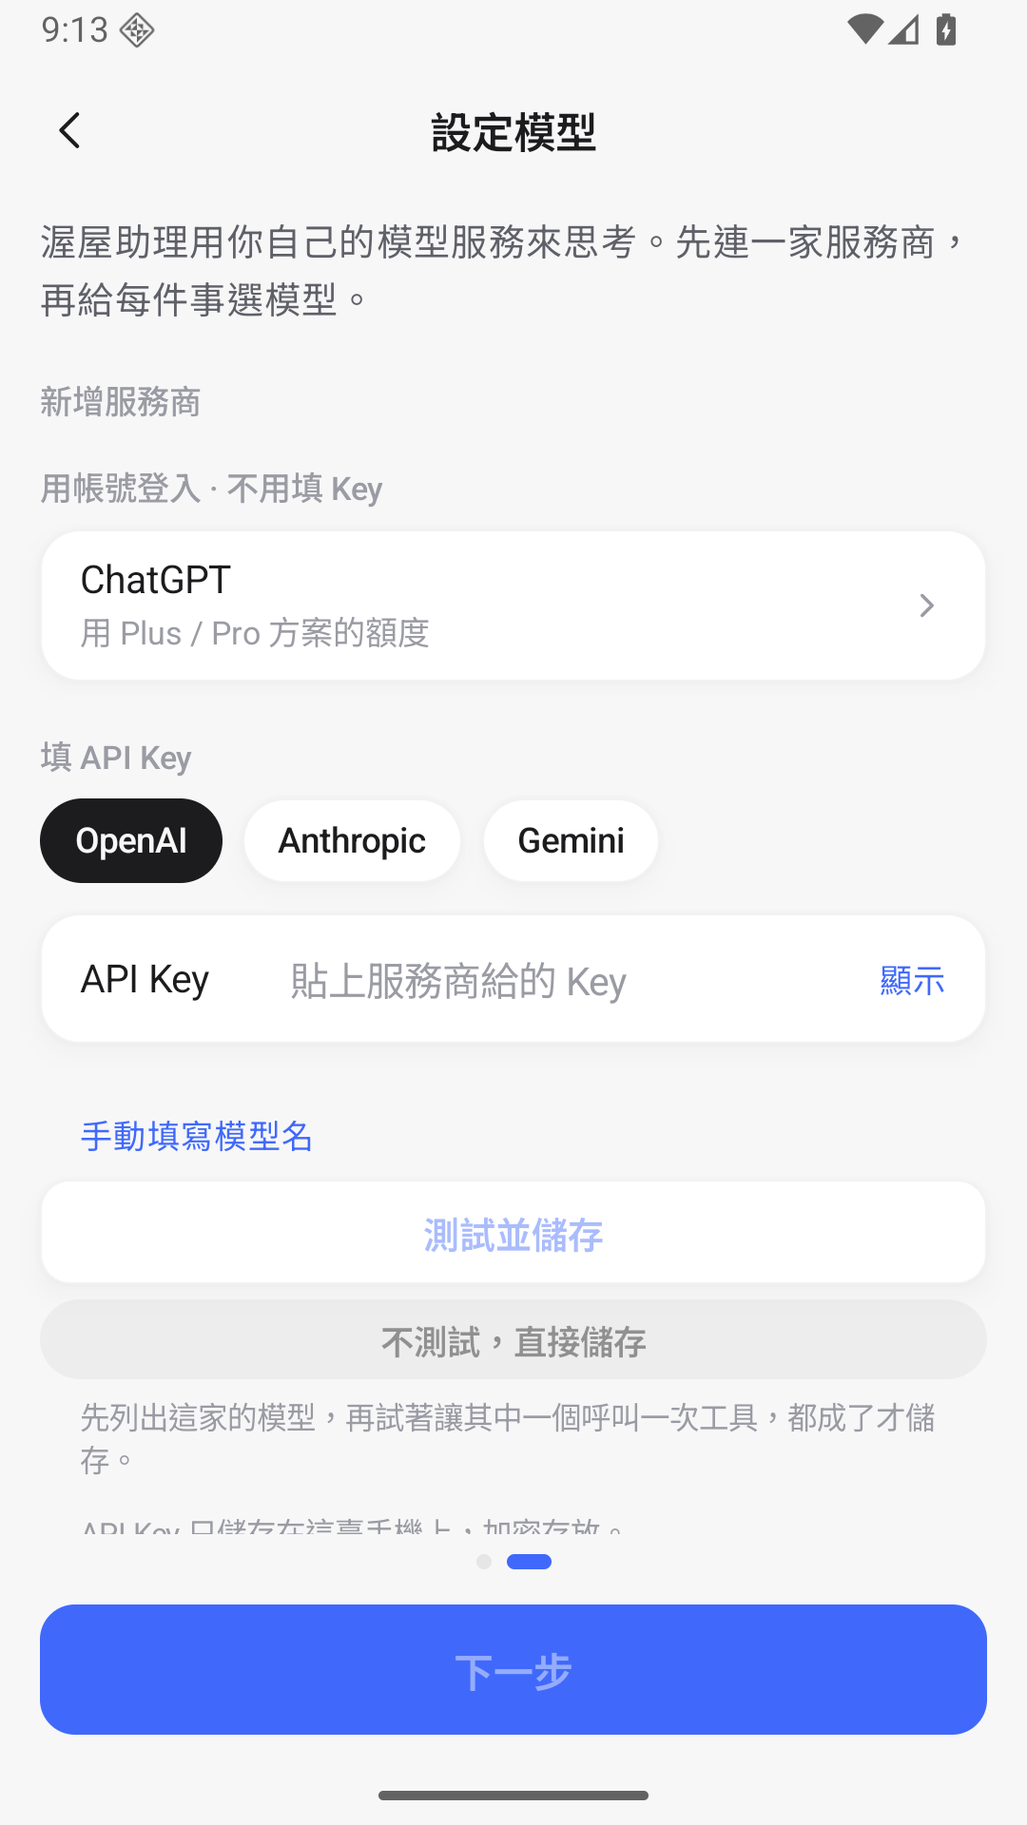
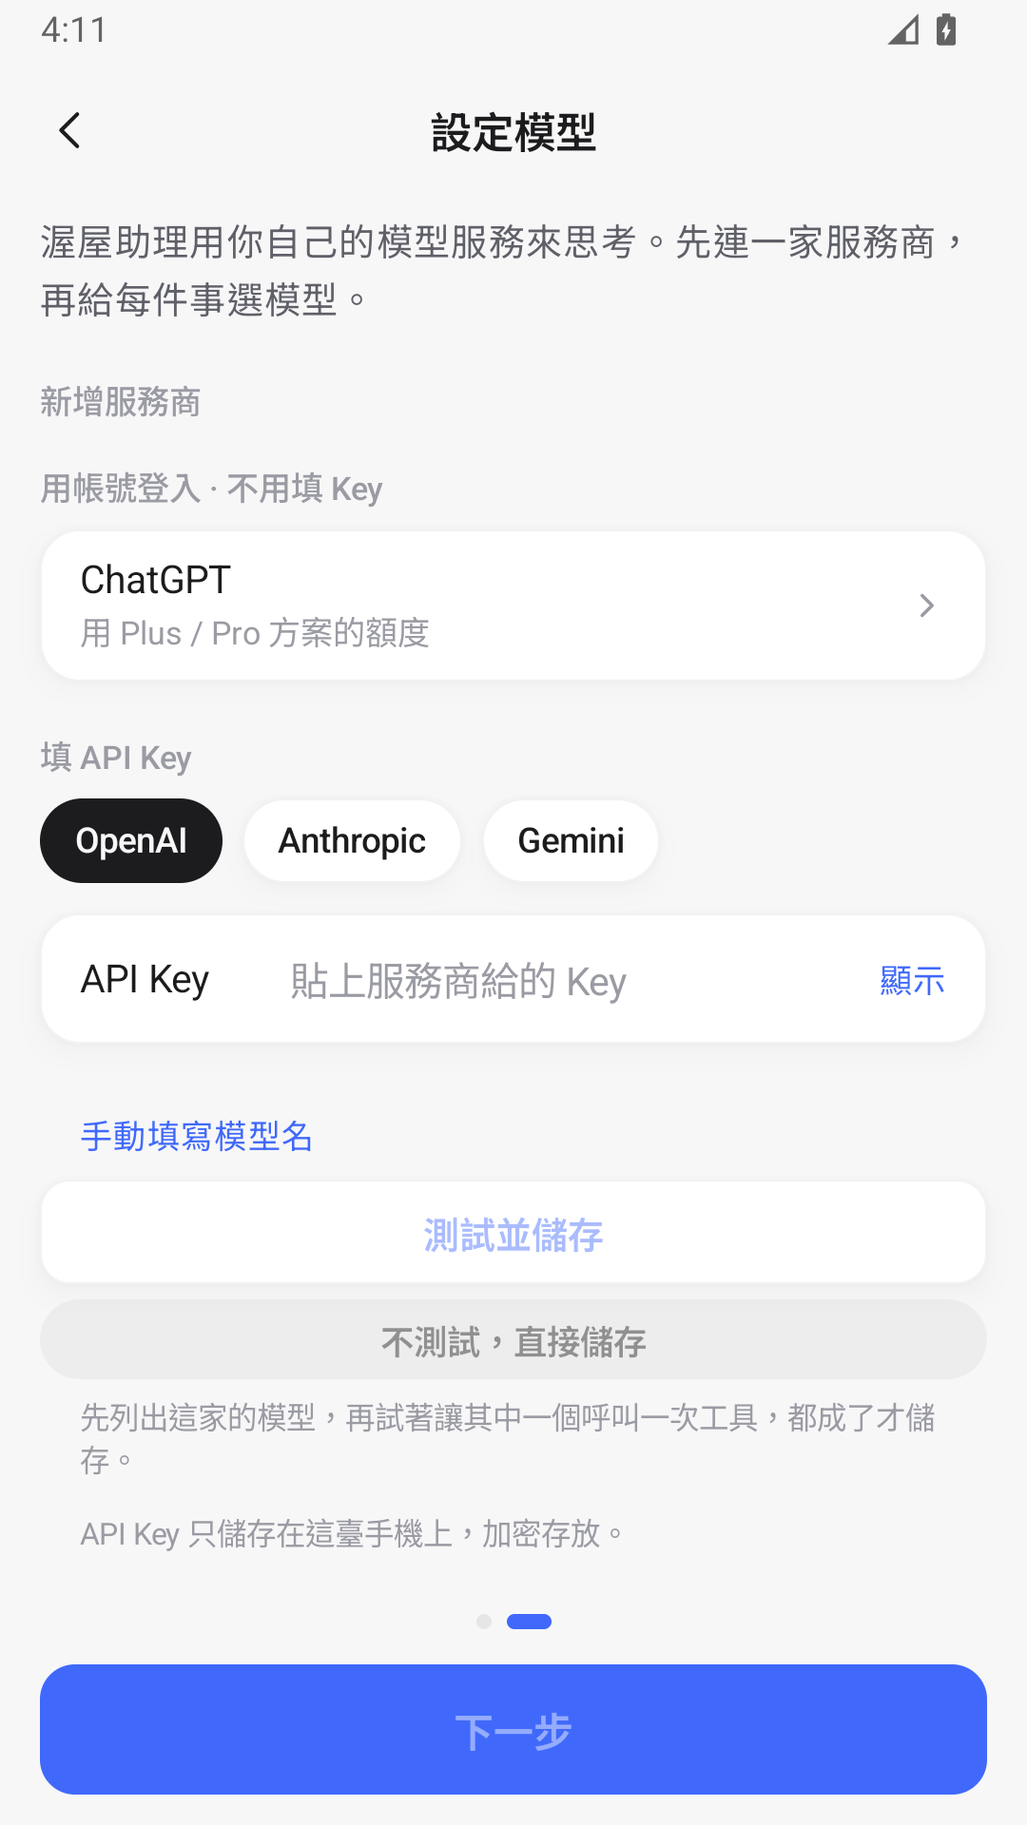
Refresh Play review assets and pre-Console acceptance

diff --git a/docs-woowtech/PLAY_SUBMISSION_STATUS_2026-11-12.md b/docs-woowtech/PLAY_SUBMISSION_STATUS_2026-11-12.md
@@ -1,6 +1,6 @@
 # 渥屋助理商店版：送審進度與交接
 
-更新：2026-11-12，Asia/Taipei。套件 `io.woowtech.assistant`，候選版 `0.1.37-play.3`、`versionCode=3`、target API 36。**目前尚未經 Play Console 上傳或送審；是否已存在同套件草稿仍待 Console 確認。** 本檔只記已完成的實測及仍需執行的事項，不把模擬器安裝當作 Play 安裝。
+更新：2026-11-13，Asia/Taipei。套件 `io.woowtech.assistant`，候選版 `0.1.37-play.3`、`versionCode=3`、target API 36。**目前尚未經 Play Console 上傳或送審；是否已存在同套件草稿仍待 Console 確認。** 本檔只記已完成的實測及仍需執行的事項，不把模擬器安裝當作 Play 安裝。
 
 ## 已完成
 
@@ -11,7 +11,8 @@
 | 隱私與資料申報底稿 | 公開雙語頁 `https://assistant-relay.woowtech.io/privacy/play` 已更新並回讀 200；揭露對話、附件、語音、MCP、使用者主動傳送的診斷紀錄與檢舉資料。Data safety 逐題工作表在 `PLAY_DATA_SAFETY_WORKSHEET_2026-11-12.md`，尚未填 Console。 |
 | 套件精簡與加密 | 商店 AAB 不含沙箱 rootfs、PRoot、mikarun、ML Kit OCR 依賴與其 native 檔；Apporo／上游變體保留。商店版模型只走官方 HTTPS，遠端 MCP 和診斷網址須 HTTPS。 |
 | 實機和模擬器 | 已把當前原始碼重新建置的 `play.3` Debug APK 以 ADB 更新至 POCO：真實 ChatGPT 短對話成功，HA MCP 列出 77 工具，記憶／技能頁與公開隱私頁可開啟，舊自訂供應商標示不支援；橫向側欄能捲到最近對話及設定。測試對話已刪除，原 GitHub 版已回前景。另從簽章 AAB 派生分割 APK 安裝於全新 Android 36 模擬器，核對中英文模型設定只出現官方供應商。詳細界線見 `PLAY_POCO_ACCEPTANCE_2026-11-12.md`；均不等於 Play 商店安裝。 |
-| 商店素材 | icon、feature graphic、雙語歡迎與模型設定截圖已準備，截圖已用本次 AAB 衍生安裝重拍。`play-assets/fgs-task-demo-redacted.mp4` 展示前景任務；`play-assets/fgs-chatgpt-signin-demo.mp4` 連續展示使用者啟動登入、系統瀏覽器及前景通知的取消按鈕。兩片均顯示使用者如何觸發功能，符合 Google 公開影片說明；最終仍以 Console 審查為準。 |
+| 乾淨安裝補驗 | 2026-11-13 將簽章 AAB 透過 bundletool 派生 APK，以 Debug 憑證安裝至已清除資料的 Android 36 Google APIs 模擬器；英／繁中歡迎頁及模型設定正常，只見 ChatGPT 和 OpenAI、Anthropic、Gemini 官方選項，無 Key 時儲存與下一步不可按。ChatGPT 登入會啟動前景服務並開啟瀏覽器，回 App 取消後服務停止；沒有完成帳號登入或模型對話。這臺模擬器沒有 Play Store，不能當作 Play 軌道安裝。 |
+| 商店素材 | icon、feature graphic、雙語歡迎與模型設定截圖已準備；四張英／繁中截圖已從這次 AAB 衍生安裝重拍並確認 RGB 像素與原始擷取一致。公開隱私頁、支援網站與兩支前景服務影片 URL 在 2026-11-13 回 200。影片展示使用者如何觸發功能；最終仍以 Console 審查為準。對話、瀏覽器、記憶的商店截圖要在 Play 安裝後補拍，現在不得把早期 Debug 實測說成 Play 截圖。 |
 | 簽章候選包 | 專用上傳金鑰已用於 `bundleWoowtechRelease`；bundletool 驗證成功、`jarsigner` 回報 `jar verified`。`tools/build-play-candidate.sh` 要求私有簽章設定與 bundletool，並攔截未簽章包、套件名稱錯誤、缺少 16 KB 對齊及誤包入直接下載版執行環境。每次程式碼提交後都須重建包並記錄 SHA-256；Google Play App Signing 與從 Play 商店安裝另需驗收。 |
 
 ## 仍需完成才能提交
@@ -20,7 +21,7 @@
 2. **Play Console 表單與上傳。** Chrome 已登入 WOOWTECH 機構帳戶，但本次 `System Events` 自動化再次 AppleEvent 逾時 `-1712`，所以尚未能確認草稿、建立 App 或上傳 AAB。取得可操作的 Console 後填商店圖文、分級、目標對象、廣告、Data safety、AI 內容、App access、隱私政策與前景服務聲明。草稿見 `PLAY_CONSOLE_REVIEW_INPUT_DRAFT.md`。
    - 這個套件名稱曾以 Debug 簽章安裝在 POCO。Google 的 Android 開發者驗證說明指出，若新 Play App 的套件名稱先在已認證裝置使用，Console 可能要求驗證當時的簽章私鑰所有權；遇到該提示時依 Console 流程使用本機既有的 Debug 簽章材料，不應猜測已自動通過。[官方說明](https://developer.android.com/developer-verification/assets/pdfs/updates-to-play-console-for-android-developer-verification.pdf)
 3. **前景服務申報。** Manifest 有 `TaskService` 及 `ChatGptSignInService` 兩項 `specialUse`，各需用途、啟動／停止與中斷影響說明，並提交已準備的示範影片。公開說明要求影片展示 App 中觸發功能的步驟；兩片均已涵蓋。Console 仍須實際接受用途與影片。[FGS 申報](https://support.google.com/googleplay/android-developer/answer/13392821?hl=en)
-4. **Play 內測。** 使用和提交版本一致的簽章 AAB，核對 manifest／16 KB 相容性後上傳內部測試。先從 Play 安裝至乾淨的測試裝置或可使用 Play 的模擬器，驗證首次設定、官方模型對話、HTTPS MCP、語音、瀏覽器、技能／記憶、檢舉與刪除；內測通過後才進入正式送審流程。POCO 現有同套件 Debug 憑證已確認不同於本機上傳憑證；Play 分發憑證仍須在 Console 核對，若不同便不能直接覆蓋。須先決定 POCO 的資料保留／遷移方案，**不得為了內測直接解除安裝並清掉既有資料**。[Android 更新簽章規則](https://developer.android.com/google/play/app-updates)、[Play App Signing](https://support.google.com/googleplay/android-developer/answer/9842756?hl=en)
+4. **Play 內測。** 使用和提交版本一致的簽章 AAB，核對 manifest／16 KB 相容性後上傳內部測試。先從 Play 安裝至乾淨的測試裝置或可使用 Play 的模擬器，依 `PLAY_INTERNAL_TEST_CHECKLIST_2026-11-13.md` 驗證首次設定、官方模型對話、HTTPS MCP、語音、瀏覽器、技能／記憶、檢舉與刪除；內測通過後才進入正式送審流程。現有 Android 36 Google APIs 模擬器沒有 Play Store。POCO 現有同套件 Debug 憑證已確認不同於本機上傳憑證；Play 分發憑證仍須在 Console 核對，若不同便不能直接覆蓋。須先決定 POCO 的資料保留／遷移方案，**不得為了內測直接解除安裝並清掉既有資料**。[Android 更新簽章規則](https://developer.android.com/google/play/app-updates)、[Play App Signing](https://support.google.com/googleplay/android-developer/answer/9842756?hl=en)
 5. **營運交接。** 指派實際每日處理檢舉的人員，確認隱私聯絡信箱持續可收件；依 `PLAY_AI_REPORT_OPERATIONS.md` 留下去識別化的處理紀錄。
 
 較早研究 `PLAY_REVIEW_READINESS_2026-11-12.md` 為歷史紀錄，其中 `play.2`、未簽章包與未公開隱私政策的狀態已被本檔更新。

diff --git a/docs-woowtech/PLAY_SUBMISSION_HANDOFF_2026-11-12.md b/docs-woowtech/PLAY_SUBMISSION_HANDOFF_2026-11-12.md
@@ -1,6 +1,6 @@
 # 渥屋助理商店版：送審與實機驗收交接
 
-> 2026-11-12 後續 Console 核對：WOOWTECH 已確認為機構帳戶；首頁列出的八個 App 未見 `io.woowtech.assistant`，尚未確認是否存在其他草稿。本次未建立或送審渥屋助理；完整狀態與舊文件落差見 `PLAY_REVIEW_READINESS_2026-11-12.md`。
+> 2026-11-13 更新：WOOWTECH 已確認為機構帳戶；先前首頁列出的八個 App 未見 `io.woowtech.assistant`，尚未確認是否存在其他草稿。此交接檔保留較早背景；以 `PLAY_SUBMISSION_STATUS_2026-11-12.md` 為最新狀態。仍未上傳或送審渥屋助理。
 
 狀態：準備中，尚未送審。套件 `io.woowtech.assistant`，與 GitHub APK `io.woowtech.agent` 共存。送審依據是最終 AAB、實際網路流量與 Play Console 畫面，不能從其他渥屋 App 的申報複製答案。
 
@@ -14,9 +14,9 @@
 
 ## 現有可交付物
 
-- 分支 `playstore/woowtech-compliant-20261111`；本機有候選 Release AAB，尚無標準上傳簽章，也尚未上傳 Play Console。最終提交前須從確定的版本重建並簽章，詳見準備報告。
-- 商店文案草稿 `PLAY_STORE_LISTING_DRAFT.md`、新版隱私政策草稿 `PLAY_PRIVACY_POLICY_MCP_DRAFT.md`、審查資料草稿 `PLAY_CONSOLE_REVIEW_INPUT_DRAFT.md`；舊 `PLAY_DISCLOSURES_DRAFT.md` 含已移除功能的敘述，不可直接填報。
-- APK 權限已核對；仍須按最終 AAB 重新檢查。AI 回覆檢舉收件端已正式部署，POCO `play.2` Debug APK 的待送檢舉重試、回執持久化及測試資料刪除均通過；實測細節見 `PLAY_POCO_ACCEPTANCE_2026-11-12.md`。這不等於 Play 軌道安裝或審核通過。
+- 分支 `playstore/woowtech-compliant-20261111`；本機有已用專用上傳金鑰簽章、通過 bundletool 與 16 KB 對齊檢查的候選 AAB，並有 `tools/build-play-candidate.sh` 防止誤用未簽章包；仍未上傳 Play Console。
+- 商店文案草稿 `PLAY_STORE_LISTING_DRAFT.md`、已公開的雙語隱私頁 `https://assistant-relay.woowtech.io/privacy/play`、審查資料草稿 `PLAY_CONSOLE_REVIEW_INPUT_DRAFT.md` 與圖文／影片素材已準備。舊 `PLAY_DISCLOSURES_DRAFT.md` 含已移除功能的敘述，不可直接填報。
+- 最終 AAB 的套件、權限、服務與不含沙箱執行環境已核對。AI 回覆檢舉收件端已正式部署；POCO Debug 版的送達、管理員讀取及測試資料刪除均已驗證；`play.3` Debug 版又完成 ChatGPT 短對話與 HA MCP 列表。實測界線見 `PLAY_POCO_ACCEPTANCE_2026-11-12.md`，均不等於 Play 軌道安裝或審核通過。
 - 2026-11-12 重跑 `:core:test`：3,019 項、0 失敗、7 跳過。商店分支的獨立 README 不沿用原版 README 自動段落及翻譯結構，相關 4 項文件檢查明確跳過；其餘跳過為原有項目。中繼型別檢查、smoke、雙帳號測試、`wrangler deploy --dry-run` 均通過；正式 Worker 已部署 v3，檢舉線上測試通過。
 
 ## 目前需要負責人提供的事項
@@ -24,14 +24,14 @@
 1. **POCO 安裝已完成**：商店版 Debug APK 已透過 ADB 安裝並與 GitHub 版共存；仍須由 Play 內部測試軌安裝最終簽署版本，不能把 ADB 安裝當成商店安裝驗收。
 2. **Play Console 狀態**：WOOWTECH 已確認為機構帳戶；核對 `io.woowtech.assistant` 是否已有草稿、套件名稱是否可用及上傳權限。完成政策和出口聲明的事實核對後再建立 App，並查看「需要處理」、測試軌與應用程式簽章頁。請勿在聊天中傳私人金鑰。
 3. **審查員測試方式**：提供可供 Google 審查員使用的模型服務測試帳號／受限 API Key，或選定可公開測試的免費模型流程；使用者自備 Key 的 App 仍需讓審查員進入核心功能。憑證走 Console 的 App access 欄位，不寫入 Git。
-4. **隱私政策實務**：確認 AI 檢舉、中繼與網站日誌的營運者、保存時間、刪除管道及聯絡信箱；指定公開 HTTPS 網址。完成內容審核後，需同一 URL 出現在商店頁與 App 內。
+4. **隱私與檢舉營運**：公開 HTTPS 隱私頁及 App 內入口已存在；仍須指定每日處理 AI 檢舉的人，確認隱私聯絡信箱可持續收件，並在 Console 如實填寫資料處理情形。
 5. **資料同步範圍**：依使用者後續決策，商店版保留對外 MCP 連線，移除電腦連接；先前手機在線時的遠端讀取記錄不應作為商店版現有功能宣傳。若將來需要跨裝置歷史，須另行設計及盤點資料保存、刪除與 Data safety。
 
 ## 技術與 Console 驗收順序
 
-1. 完成手機安裝、首次啟動、模型登入／Key、真實對話、語音辨識、照片與文件附件、瀏覽器、記憶、AI 檢舉、外部 MCP 工具呼叫的實機紀錄。檢查崩潰與前景服務通知。
-2. 定稿並公開隱私政策；在 App 內加入入口，驗證 HTTPS 頁免登入可由全球開啟。確認檢舉審查與刪除營運流程，按最終網路流量填 Data safety。
+1. ADB Debug 版已完成上述功能中的多項實測，AAB 衍生版亦完成乾淨安裝與英／繁中首次設定；真正的 Play 安裝版仍須按 `PLAY_INTERNAL_TEST_CHECKLIST_2026-11-13.md` 重驗，尤其是官方 API Key、真人語音與前景服務通知。
+2. 雙語隱私政策已公開並在 App 內有入口；正式填 Data safety 時，仍要和最終網路流量、第三方模型及檢舉營運逐項核對。
 3. 對最終 AAB 檢查套件名稱、versionCode、target API、簽章、權限及服務；補 Play Console 的 App content、App access、內容分級、目標受眾、廣告、前景服務用途與商店圖文。
-4. 先上傳內部測試軌，用 Play 商店安裝到 POCO 驗證更新與基本功能；再依 Console 顯示的帳號資格選封閉測試或正式軌。以 Console 顯示的處理／審核狀態為準。
+4. 先上傳內部測試軌，優先在乾淨、可使用 Play 商店的測試裝置安裝並驗證。POCO 現有同套件 Debug 版，若 Play 分發簽章不同，不可直接覆蓋或直接清除其資料；先核對簽章與資料保留方案。內測通過後再依 Console 當時的資格及要求進入正式軌；以 Console 顯示的處理／審核狀態為準。
 
 Google 官方：[準備審核](https://support.google.com/googleplay/android-developer/answer/9859455)、[Data safety](https://support.google.com/googleplay/android-developer/answer/10787469)、[內部與封閉測試](https://support.google.com/googleplay/android-developer/answer/9845334)、[建立並推出版本](https://support.google.com/googleplay/android-developer/answer/9859348)。新個人帳號是否須 12 名測試者連續 14 天，按帳號類型和 Console 狀態確認：[官方規則](https://support.google.com/googleplay/android-developer/answer/14151465)。

diff --git a/docs-woowtech/play-assets/README.md b/docs-woowtech/play-assets/README.md
@@ -1,6 +1,6 @@
 # Google Play asset inventory — io.woowtech.assistant
 
-Prepared 2026-11-12 from existing Woowtech artwork and genuine Play-edition app captures. These files are candidates for the Play listing and foreground-service declarations; review them against the final signed AAB before upload. No simulated app UI was used.
+Prepared 2026-11-13 from existing Woowtech artwork and genuine Play-edition app captures. These files are candidates for the Play listing and foreground-service declarations; review them against the Play-installed build before publication. No simulated app UI was used.
 
 ## Existing artwork reviewed
 
@@ -32,7 +32,7 @@ The render uses `rsvg-convert`; the icon PNG was converted to RGBA with `ffmpeg`
 
 ## Screenshot and video follow-up
 
-The welcome and model-setup captures were refreshed after installing split APKs generated from the signed Play AAB. All screenshots were converted from Android's RGBA capture format to 24-bit RGB PNG; decoded RGB pixels were compared before and after conversion and matched exactly. The settings image predates the final AAB but shows the same Play package on POCO. Add genuine chat, browser and memory captures from the **Play-installed** release during internal testing if the listing needs more coverage. Use test data and no personal identifiers. Do not present a mock-up, an older `io.woowtech.agent` screen, cross-app automation, remote sync, or an unfinished feature as a Play screenshot. The ChatGPT sign-in video shows the Cancel control but ends before the user taps it; the cancellation was tested separately. Confirm whether this video satisfies the Console declaration before submission.
+The four English and Traditional Chinese welcome/model-setup captures were refreshed on 2026-11-13 after installing APKs generated from the signed Play AAB on a clean Android 36 Google APIs emulator. bundletool signed those installable APKs with a local Debug certificate; this is **not** a Play Store installation. All four screenshots were converted from Android's RGBA capture format to 24-bit RGB PNG; decoded RGB pixels matched the original captures exactly. The settings image predates this AAB but shows the same Play package on POCO. Add genuine chat, browser and memory captures from the **Play-installed** release during internal testing if the listing needs more coverage. Use test data and no personal identifiers. Do not present a mock-up, an older `io.woowtech.agent` screen, cross-app automation, remote sync, or an unfinished feature as a Play screenshot. The ChatGPT sign-in video shows the Cancel control but ends before the user taps it; on the refreshed AAB-derived emulator install, the app's Cancel button stopped the login foreground service. Confirm whether this video satisfies the Console declaration before submission.
 
 The [official Play preview-asset guidance](https://support.google.com/googleplay/android-developer/answer/9866151?hl=en) currently requires at least two screenshots across device types, JPEG or 24-bit PNG without alpha, a minimum dimension of 320 px, a maximum dimension of 3840 px, and a longest dimension at most twice the shortest. For stronger app placement it recommends at least four screenshots at 1080 px or greater, in 9:16 portrait or 16:9 landscape. Capture an appropriate device resolution or crop only unneeded system edges from a genuine capture; keep the app UI itself authentic. Add alt text for each final image. If a final capture is edited for privacy or system-bar cleanup, retain the unedited original locally for comparison.
 

diff --git a/docs-woowtech/PLAY_INTERNAL_TEST_CHECKLIST_2026-11-13.md b/docs-woowtech/PLAY_INTERNAL_TEST_CHECKLIST_2026-11-13.md
@@ -1,0 +1,32 @@
+# 渥屋助理 Play 內部測試驗收表
+
+更新：2026-11-13。適用套件 `io.woowtech.assistant`。請在 Google Play 內部測試軌實際安裝後記錄結果；ADB Debug、bundletool 派生 APK 與舊版 POCO 測試只能當前置證據。測試憑證、完整私人 MCP 網址和使用者資料不得填入本檔。
+
+## 開始前記錄
+
+| 項目 | 待填 |
+| --- | --- |
+| Console App 與內測軌狀態 | 尚未能進入 Console 確認 |
+| 上傳 AAB 的版本碼和 SHA-256 | 上傳前以 `tools/build-play-candidate.sh` 最終輸出填入 |
+| Play App Signing 分發憑證 | 從 Console 複製公開 SHA-256 指紋；與裝置既有簽章比對 |
+| 測試裝置 | 優先全新 Play 可用裝置；現有 Android 36 Google APIs 模擬器沒有 Play Store |
+| 模型測試服務 | 專用、有效、有限額的官方 OpenAI／Anthropic／Gemini API Key；只放 Console 受限欄位或測試裝置，不放此檔 |
+| MCP 測試服務 | 可供審查員使用的唯讀 HTTPS 測試端點；不要交付正式 HA 私人 webhook |
+
+## 從 Play 安裝後逐項驗證
+
+| 項目 | 操作與通過標準 | 目前狀態 |
+| --- | --- | --- |
+| 安裝來源與簽章 | 從內測連結安裝，核對版本、套件、Play 分發憑證與首次啟動；保留安裝畫面與版本證據。 | 待 Play 內測 |
+| 首次設定 | 英文與繁中歡迎頁可見；只提供 ChatGPT 與三家官方 API；未設定模型時不能誤進可對話狀態。 | AAB 衍生版已通過；待 Play 重驗 |
+| 官方模型對話 | 用審查專用官方 API Key 和模型設定、測試並儲存；新對話要求只答 `PLAY_OK`，確認回覆與用量紀錄。 | POCO ChatGPT 曾成功；官方 Key 與 Play 版待驗 |
+| 登入與前景服務 | 啟動 ChatGPT 登入時能見到瀏覽器和進度通知；取消後服務結束。另送出 AI 任務確認通知與停止操作。 | AAB 衍生版登入啟動／取消已通過；Play 版待驗 |
+| 語音與附件 | 真人對著實機說測試句，確認轉寫保留於輸入框；用系統選擇器加入並移除測試照片與文件，送出時確認模型實際收到。 | Debug 版部分通過；Play 版與附件送出待驗 |
+| 瀏覽器 | 開啟公開 HTTPS 網頁及 App 內隱私頁，切回對話並確認頁面仍可用。 | Debug 版通過；Play 版待驗 |
+| 記憶與技能 | 新增測試記憶／技能，跨對話查回或使用，再逐筆刪除；確認清理後不再顯示。 | Debug 版通過；Play 版待驗 |
+| 外部 MCP | 新增唯讀 HTTPS 測試伺服器，列出工具，限制允許清單，讓模型實際呼叫允許工具並拒絕未允許工具；刪除連線。 | Debug 版 HA 唯讀鏈路通過；Play 版待驗 |
+| AI 回覆檢舉與刪除 | 對測試回覆送出標記為測試的檢舉，確認伺服器回執、重開 App 後仍顯示、再刪除測試檢舉。 | 正式端＋Debug 版通過；Play 版待驗 |
+| 版面與能力界線 | 直橫向側欄、深淺色、截圖／錄影可用；確認商店版沒有跨 App 操作、手機遠端連接與沙箱執行入口。 | Debug 版與程式碼已檢查部分；Play 版待驗 |
+| 穩定性 | 每段測試記錄時間、裝置、版本、結果與必要截圖；檢查崩潰或 ANR，清除測試資料。 | 待 Play 內測 |
+
+內測通過後，用該版本補拍對話、瀏覽器、記憶等真實商店截圖，核對 Data safety、隱私政策、審查員指引與實際網路行為一致，再提交正式審查。POCO 的 Debug 版資料不得為了安裝 Play 版直接解除安裝清除。
